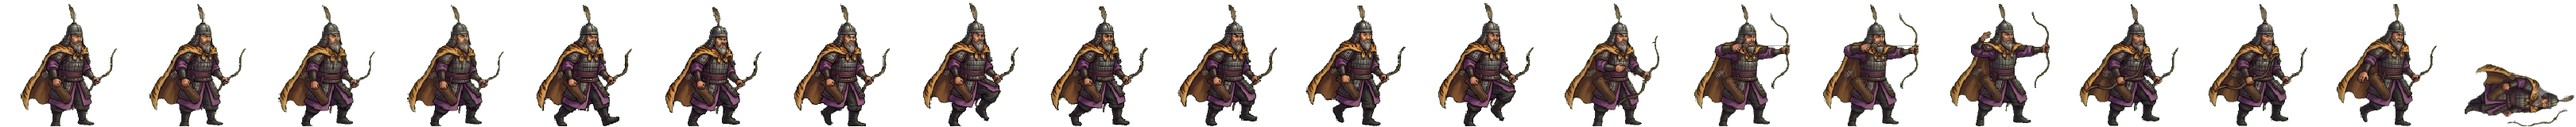
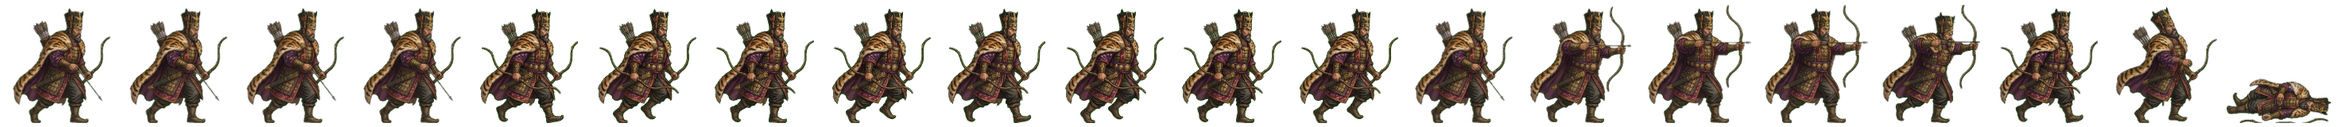
전투 띠 다시: 다물 초상대로 (작은 금관·표범 털 망토·자줏빛 옷 · 활 당기기) (형 11-08)
Claude-Session: https://claude.ai/code/session_01TRiuNAG8xSjdmjCFpc8Rd5

diff --git a/src/realm/data/art.ts b/src/realm/data/art.ts
@@ -484,7 +484,7 @@ export const GEN_ANIM: Readonly<Partial<Record<string, { ar: number; body: numbe
   daeso: { ar: 172 / 160, body: 0.900 }, // 11-08 초상대로 다시 (형: 「투구 쓰고 원본과 다르다」 · 제미나이 걷기 4×2 + 동작 4×2 → 20컷 · assets_src/realm/gemini/generals2)
   eureum: { ar: 147 / 160, body: 0.907 }, // 11-04 제 띠 (u/0 · 마젠타 바탕 · 검은 관·염소수염·녹색 두루마기·가죽 갑옷·대쪽 두루마리 · 막기 컷은 칼이 휘어 빼고 · 내려베기 칼끝이 살짝 휨)
   ogan: { ar: 162 / 160, body: 0.907, bow: true }, // 11-04 제 띠 (u/0 · 높은 상투·턱수염·쇠 미늘·남색 옷·맥궁 · 첫 장은 병사 베옷을 베끼고 글자 꼬리표 → 「모든 컷 같은 옷」을 못 박아 새 대화로)
-  damul: { ar: 162 / 160, body: 0.955, bow: true }, // 11-04 제 띠 (u/0 · 깃털 쇠투구(금관 아님)·희끗한 긴 수염·범 가죽 망토·자줏빛 비단·맥궁)
+  damul: { ar: 147 / 160, body: 0.906, bow: true }, // 11-08 초상대로 다시 (형: 「투구 쓰고 원본과 다르다」 · 제미나이 걷기 4×2 + 동작 4×2 → 20컷 · assets_src/realm/gemini/generals2)
   songyang: { ar: 149 / 160, body: 0.955, bow: true }, // 11-04 제 띠 (u/0 · 깃털 뾰족 고깔 관·희끗한 염소수염·무늬 남색 두루마기·금 드리개 · 모델이 칸 선을 그려 key-png 지울곳으로 걷음)
   maenun: { ar: 146 / 160, body: 0.955, bow: true }, // 11-04 제 띠 (u/0 · 꿩깃 검은 두건·붉은 두루마기·가죽 미늘·맥궁 · 골포국 살해 매눈)
   hyeopbo: { ar: 163 / 160, body: 0.887 }, // 11-04 제 띠 (u/0 · 검은 머리띠 상투·가는 콧수염·무늬 검은 도포·가죽 갑옷 · 곧은 고리자루 칼 — 첫 판은 휜 칼이라 버림)

diff --git a/src/ui/realm/battle-strikes.ts b/src/ui/realm/battle-strikes.ts
@@ -129,7 +129,7 @@ const RELEASE: Readonly<Record<string, [number, number, number]>> = {
   'gen-g-bow': [14, .82, .35], 'gen-w-bow': [13, .87, .31],
   'gen-jumong': [14, 0.97, 0.34], 'gen-maenun': [14, .88, .34],
   'gen-ogan': [14, .87, .32], 'gen-haedal': [14, 0.91, 0.26],
-  'gen-songbi': [14, 0.91, 0.24], 'gen-damul': [14, .86, .34],
+  'gen-songbi': [14, 0.91, 0.24], 'gen-damul': [14, 0.98, 0.33],
   'gen-songyang': [14, .86, .34],
 }
 // Extended weapon position in the contact cell, in each strip's native coordinate system.
